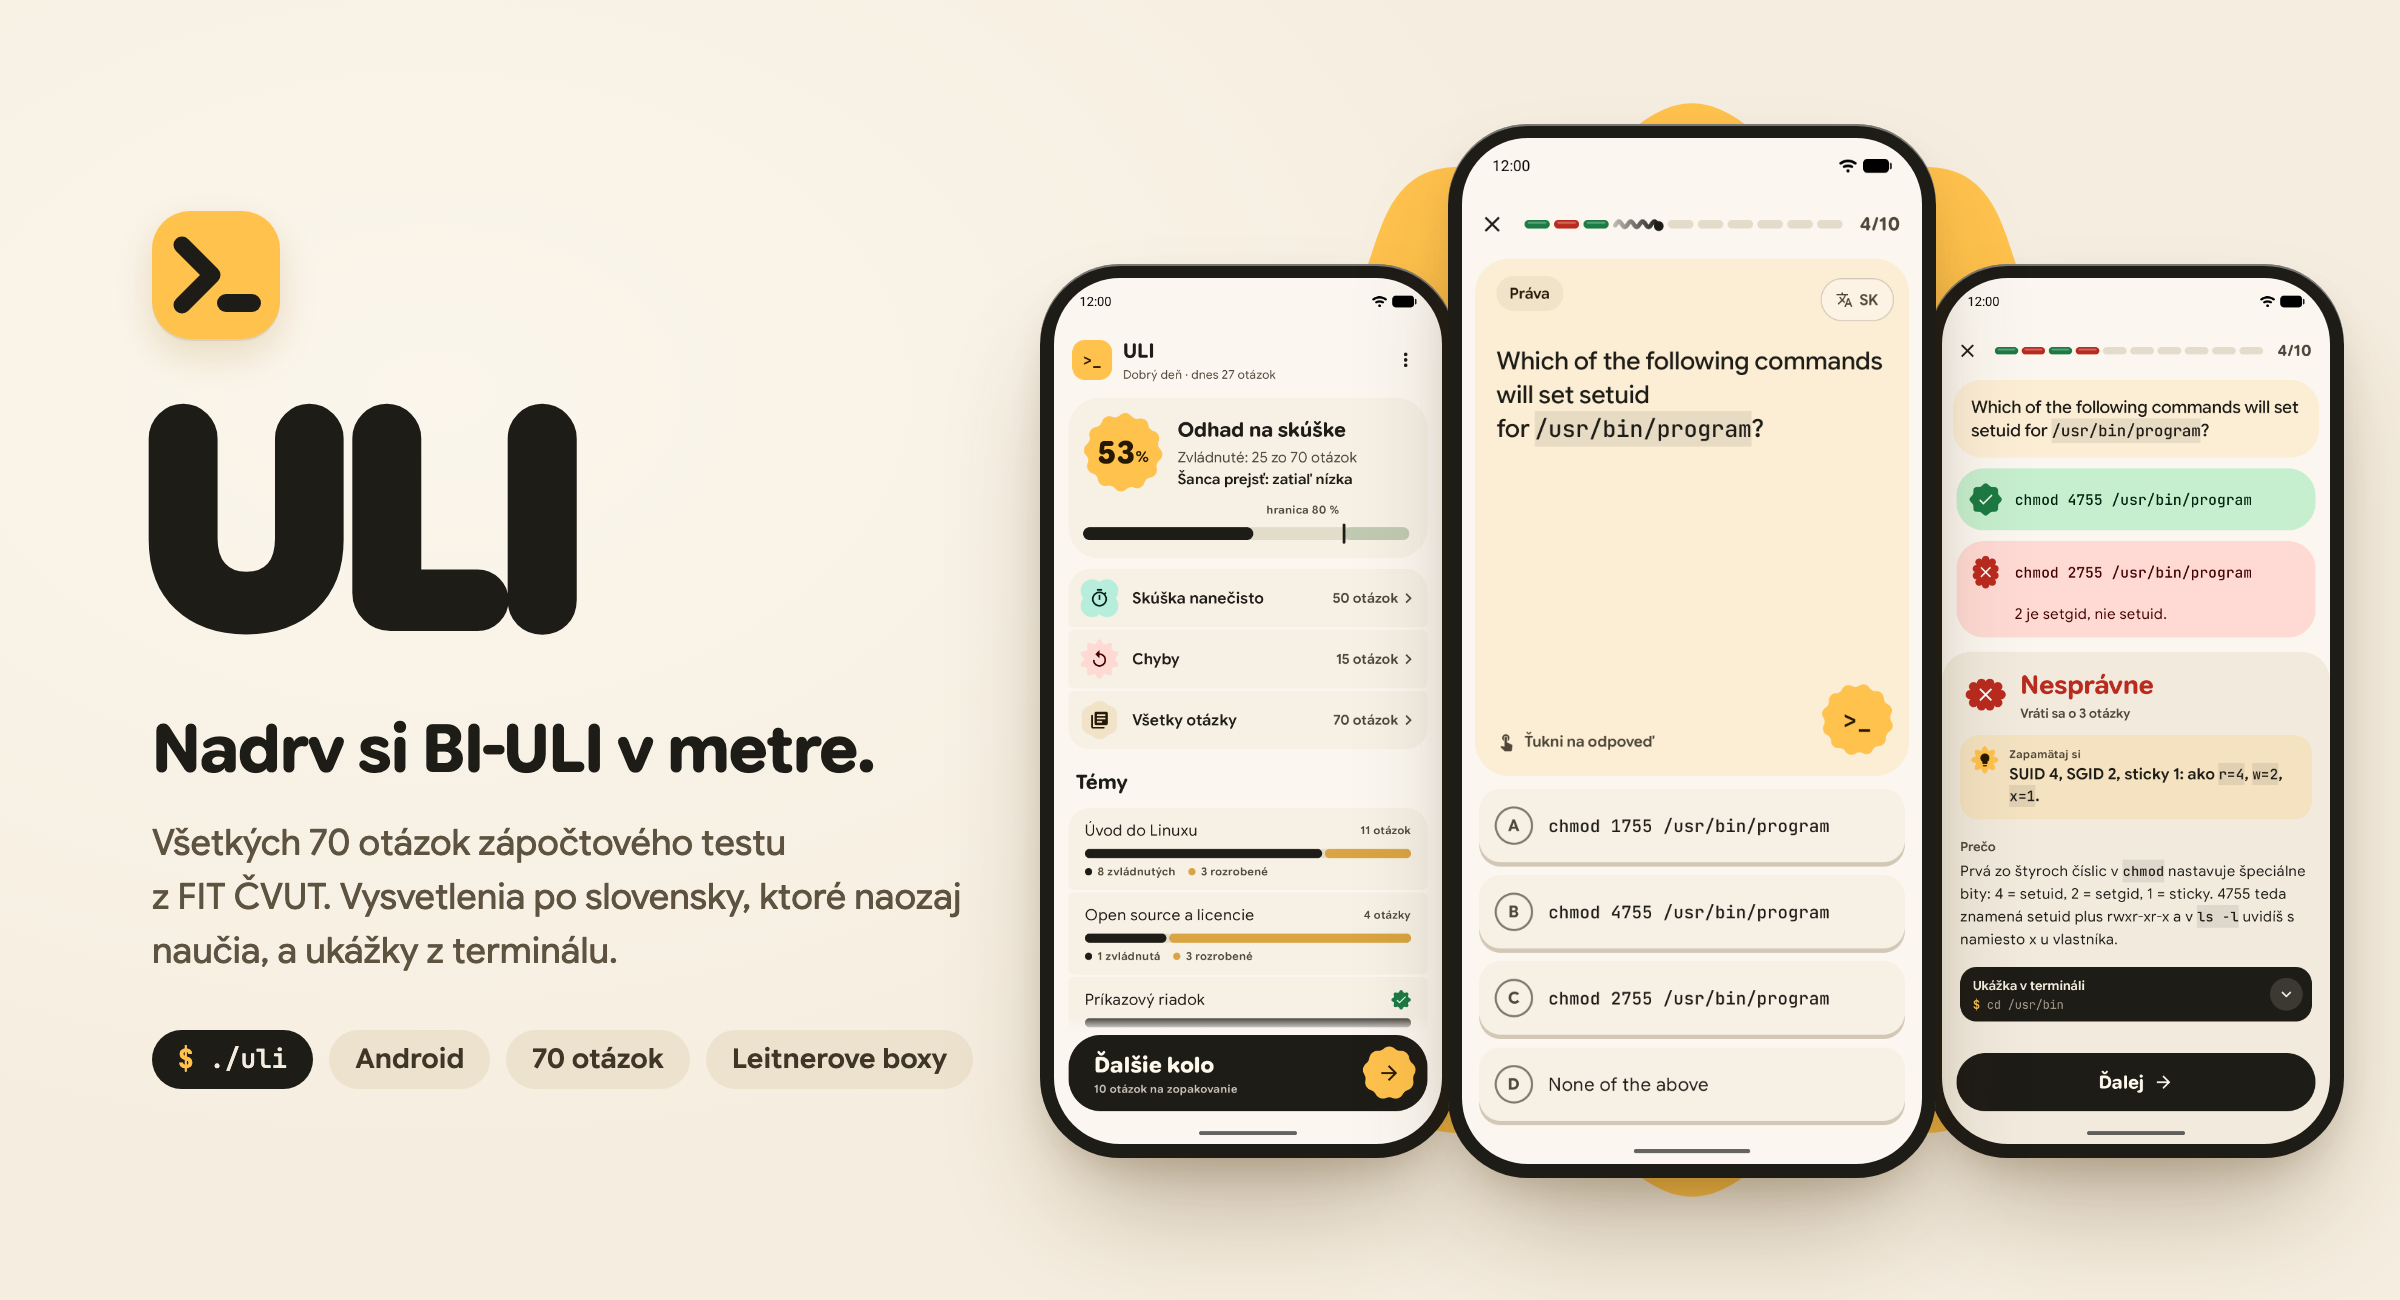
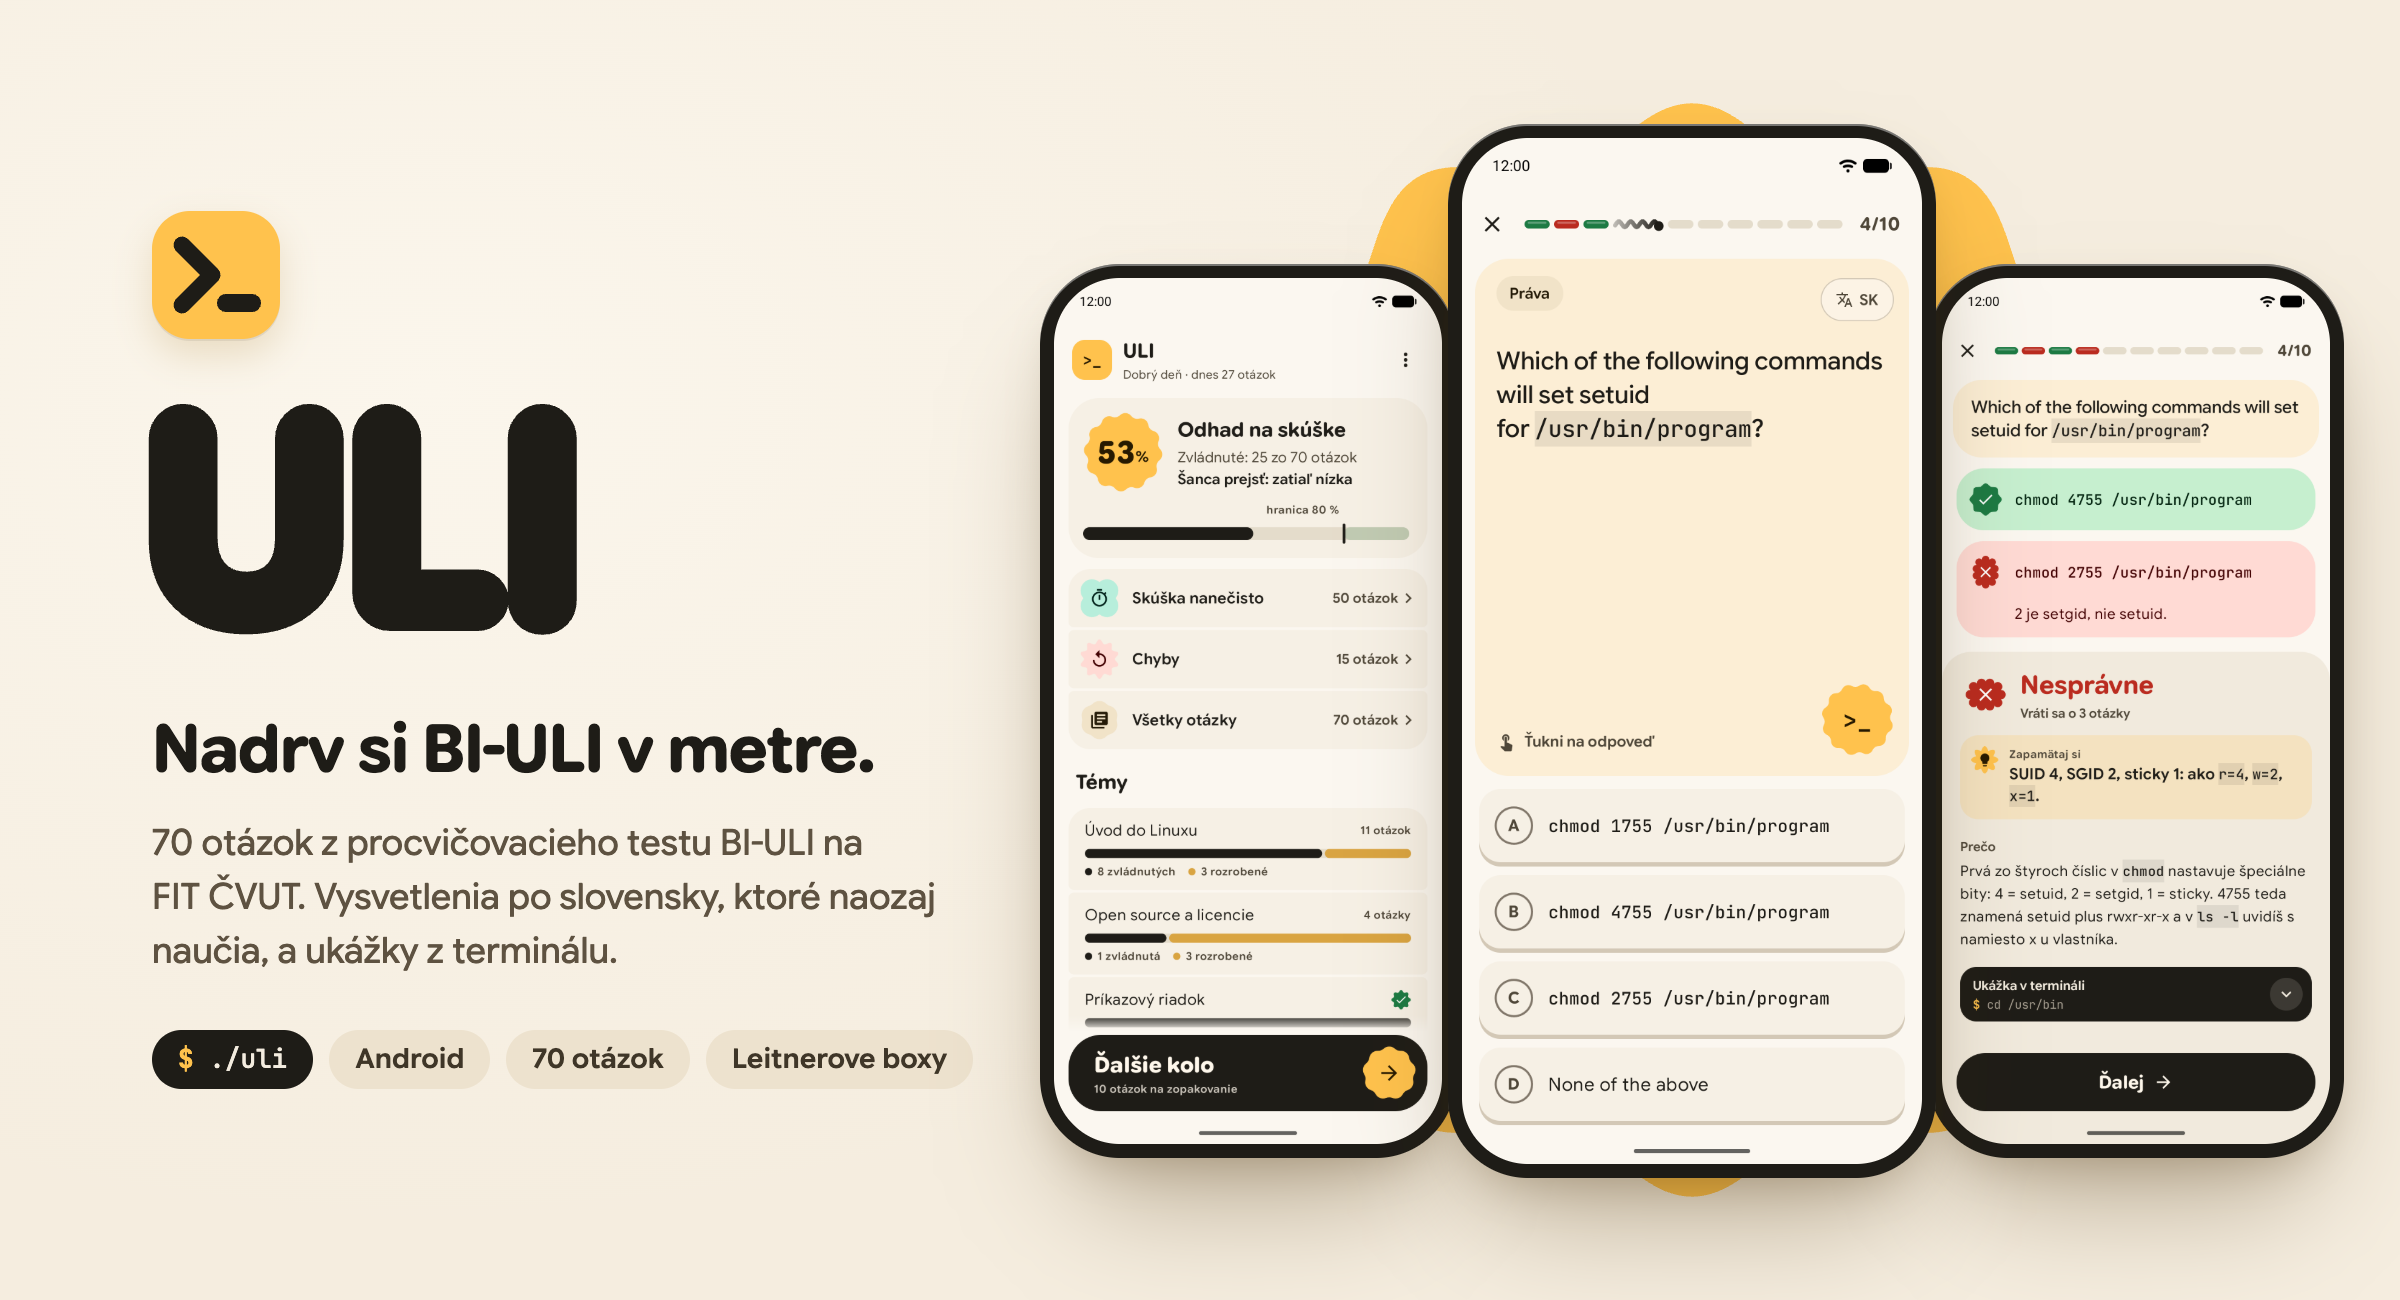
README: don't claim the live test only uses these 70 questions; hero tagline to match

Changed region(s): [[0.0625, 0.6154, 0.4062, 0.7077]]

diff --git a/README.md b/README.md
@@ -8,7 +8,7 @@
 </p>
 
 **ULI** je Android appka na precvičenie zápočtového testu **BI-ULI (Úvod do Linuxu)** na FIT ČVUT. Obsahuje všetkých
-70 otázok z procvičovacieho testu. Ostrý test je 50 náhodných otázok z nich. Pri každej otázke sa dozvieš, prečo je
+70 otázok z procvičovacieho testu, ktorý študenti zdieľajú na fit-wiki. Pri každej otázke sa dozvieš, prečo je
 odpoveď správna a prečo tá tvoja nebola. Kolo má 10 otázok, takže ho stihneš cestou v metre.
 
 Celá appka vznikla z jedného promptu v [Claude Code](https://claude.com/claude-code) a [T3 Code](https://t3.codes). Máš iPhone?
@@ -47,14 +47,20 @@ Novšiu verziu nainštaluješ rovnako, cez tú starú. Tvoj postup ostane.
 
 | | |
 |---|---|
-| Otázky | 50 náhodných z týchto 70, po anglicky |
+| Otázky | 50 náhodných zo všetkých kapitol kurzu, po anglicky |
 | Body | 1,6 b za otázku, spolu 80 b |
 | Na zápočet | **aspoň 64 b** (80 %), t. j. najviac 10 chýb |
 | Pomôcky | žiadne, ani papier a pero |
 | Kde | počítačová učebňa FIT, termíny v KOS-e, so sebou preukaz |
 
 Zdroj: [fit-wiki BI-ULI](https://fit-wiki.cz/%C5%A1kola/p%C5%99edm%C4%9Bty/bi-uli). Podľa nej ostrý test vyzerá presne
-ako procvičovací test, len z neho vyberie 50 otázok.
+ako procvičovací test, len má 50 otázok namiesto 70.
+
+> **Pozor:** nie je overené, že na ostrom teste budú len týchto 70 otázok. Test berie otázky zo všetkých kapitol
+> kurzu Linux Essentials a ich banka je väčšia: zo ~200 otázok, ktoré študenti zozbierali na fit-wiki
+> ([vypracované testy](https://fit-wiki.cz/%C5%A1kola/p%C5%99edm%C4%9Bty/bi-uli/materialy)), je v týchto 70 len 23.
+> Appka ťa naučí témy, na ktoré sa test pýta, ale „Odhad na skúške“ a „Šanca prejsť“ počítajú len s týmito 70
+> otázkami.
 
 ## Pozor na týchto 9 otázok
 
